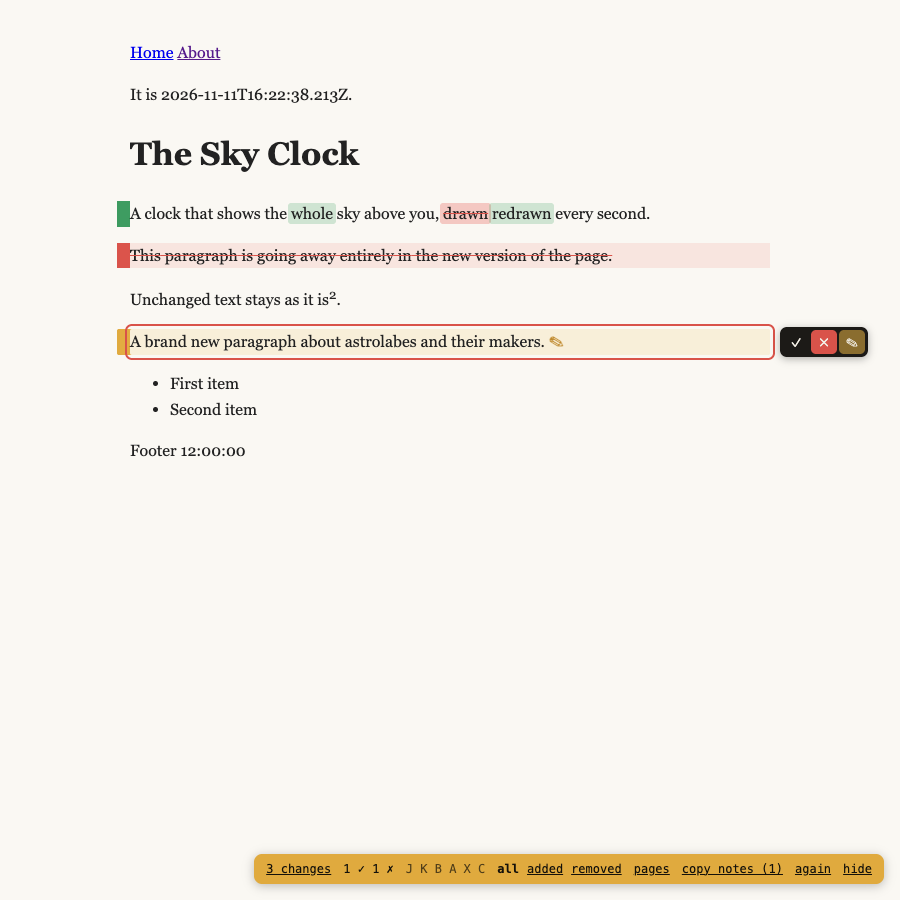
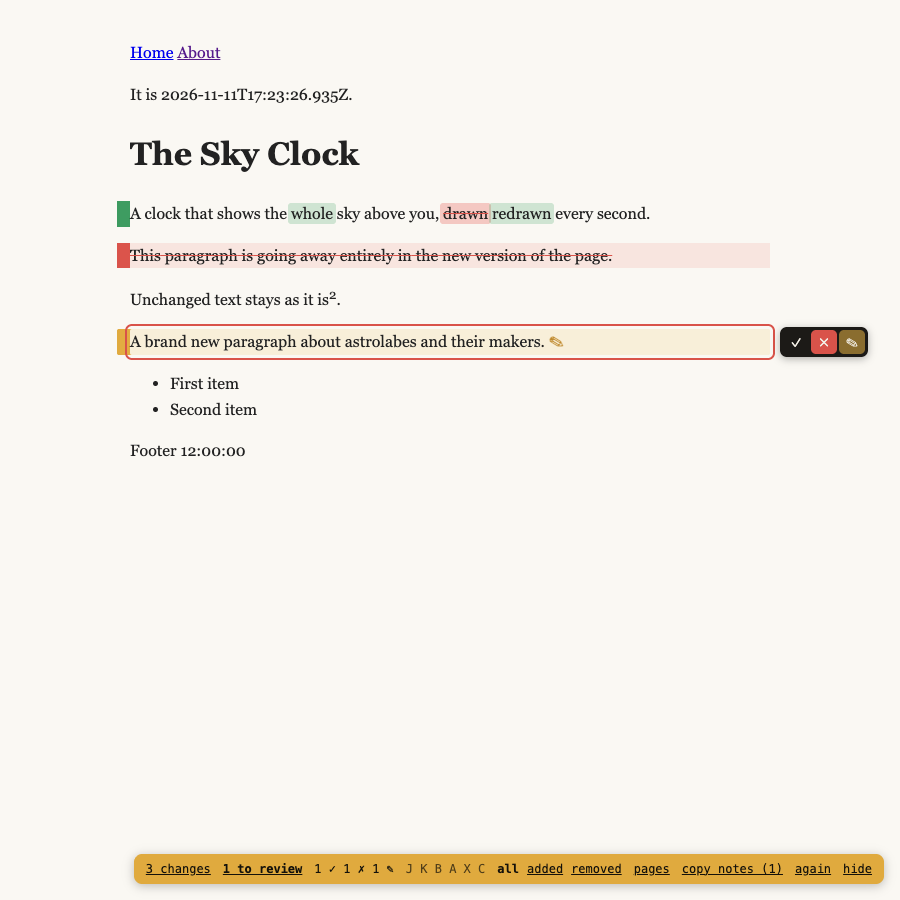
Show how many changes are still to review, and go to them
The badge and pages list count changes with no reaction yet (approve,
reject or note). Clicking the count, or approving or rejecting with A or X,
goes to the next one still to review.

Changed region(s): [[0.1244, 0.9333, 0.3733, 0.9956], [0.28, 0.0933, 0.3733, 0.1244]]

diff --git a/src/content.js b/src/content.js
@@ -78,6 +78,8 @@
   button { background:none; border:0; padding:0; color:inherit; font:inherit;
            text-decoration:underline; cursor:pointer; }
   .keys { opacity:.7; cursor:help; }
+  .todo { font-weight:700; }
+  .todo.done { font-weight:400; text-decoration:none; cursor:default; }
   /* Quick tooltips: the browser's own take a second to appear. */
   [data-tip] { position:relative; }
   [data-tip]:hover::after { content:attr(data-tip); position:absolute; right:0;
@@ -116,6 +118,7 @@
 <div class="b">
   <span class="msg"></span>
   <button class="count" hidden data-tip="Changes on this page. Click to go to the first"></button>
+  <button class="todo" hidden data-tip="Changes with no reaction yet. Click to go to the next one"></button>
   <span class="reviewed" hidden data-tip="Of this page's changes: ✓ approved, ✗ rejected, ✎ with a note or wording"></span>
   <span class="keys" hidden data-tip="J / K   next or previous change
 B       next view: all, added, removed
@@ -145,6 +148,7 @@ C       add a note or wording">J K B A X C</span>
       pages: $(".pages"),
       notes: $(".notes"),
       reviewed: $(".reviewed"),
+      todo: $(".todo"),
       panel: $(".panel"),
       ptitle: $(".ptitle"),
       plist: $(".panel ul"),
@@ -157,6 +161,7 @@ C       add a note or wording">J K B A X C</span>
     ui.more.onclick = () => scanPages(false);
     ui.pages.onclick = () => togglePages();
     ui.notes.onclick = () => copyNotes();
+    ui.todo.onclick = () => nextOpen();
     ui.rescan.onclick = () => scanPages(true);
     ui.count.onclick = () => step(1, true);
     for (const b of root.querySelectorAll("[data-mode]"))
@@ -182,6 +187,12 @@ C       add a note or wording">J K B A X C</span>
     const t = RV()?.tally(sum) ?? "";
     u.reviewed.hidden = !t;
     u.reviewed.textContent = t;
+    // Changes nobody has reacted to yet, or a tick once there are none.
+    u.todo.hidden = !sum;
+    if (sum) {
+      u.todo.textContent = sum.open ? `${sum.open} to review` : "all reviewed";
+      u.todo.classList.toggle("done", !sum.open);
+    }
     const fb = reviews ? RV().feedback(reviews).length : 0;
     u.notes.hidden = !fb;
     if (fb) u.notes.textContent = `copy notes (${fb})`;
@@ -355,6 +366,23 @@ C       add a note or wording">J K B A X C</span>
     render(ui?.msg.textContent, ui?.box.title);
     // The pages list shows each page's progress, so it follows along.
     if (ui && !ui.panel.hidden && !signal && scan) listPages();
+  }
+
+  // Goes to the next change with no reaction yet, after the current one.
+  function nextOpen() {
+    const open = [...document.querySelectorAll("[data-redline-id]")].filter(
+      (el) => el.getClientRects().length && !RV().reacted(reviews, el.getAttribute("data-redline-id"))
+    );
+    if (!open.length) return;
+    const from = tools.el ?? state.current;
+    const after = from
+      ? open.find((el) => from.compareDocumentPosition(el) & Node.DOCUMENT_POSITION_FOLLOWING)
+      : null;
+    const target = after ?? open[0];
+    state.current = target;
+    target.scrollIntoView({ behavior: "smooth", block: "center" });
+    const change = changeOf(target);
+    if (change) showTools(change);
   }
 
   async function copyNotes() {
@@ -695,7 +723,8 @@ C       add a note or wording">J K B A X C</span>
       if (it.state === "new") tag.innerHTML = '<span class="new">new page</span>';
       else if (it.state === "removed") tag.innerHTML = '<span class="removed">removed page</span>';
       else {
-        tag.textContent = `${it.count} ${it.count === 1 ? "change" : "changes"}`;
+        // Not opened since its text last changed: none of it is reviewed.
+        tag.textContent = `${it.count} to review`;
         // Review progress, for pages opened since their text last changed.
         const sum = reviews && RV().pageSummary(reviews, it.path);
         const t = RV().tally(sum);
@@ -703,7 +732,7 @@ C       add a note or wording">J K B A X C</span>
           tag.textContent =
             sum.ok === sum.total && !sum.noted
               ? "all approved"
-              : `${it.count} ${it.count === 1 ? "change" : "changes"}: ${t}`;
+              : [sum.open && `${sum.open} to review`, t].filter(Boolean).join(" · ");
       }
       li.append(a, tag);
       u.plist.append(li);
@@ -825,7 +854,7 @@ C       add a note or wording">J K B A X C</span>
         const s = key === "a" ? "ok" : "no";
         const was = reviews?.entries[tools.change.id]?.state;
         review(tools.change, { state: was === s ? null : s }).then(() => {
-          if (was !== s) step(1);
+          if (was !== s) nextOpen();
         });
       } else if (key === "c" && tools.change) openNote();
       else if (key === "j") step(1);

diff --git a/src/review.js b/src/review.js
@@ -43,20 +43,22 @@ globalThis.RedlineReview ??= (() => {
     return data;
   }
 
-  // { total, ok, no, noted } for a page, or null when it has not been opened.
+  // { total, ok, no, noted, open } for a page (open: no reaction yet), or null when it has not been opened.
   function pageSummary(data, path) {
     const page = data.pages[path];
     if (!page) return null;
     let ok = 0;
     let no = 0;
     let noted = 0;
+    let open = 0;
     for (const id of page.ids) {
       const e = data.entries[id];
       if (e?.state === "ok") ok++;
       else if (e?.state === "no") no++;
       if (e?.note || e?.suggestion) noted++;
+      if (!e?.state && !e?.note && !e?.suggestion) open++;
     }
-    return { total: page.ids.length, ok, no, noted };
+    return { total: page.ids.length, ok, no, noted, open };
   }
 
   // The reviews still current, worth sending on: rejections, notes and
@@ -105,5 +107,11 @@ globalThis.RedlineReview ??= (() => {
       .join(" ");
   }
 
-  return { load, setPage, update, pageSummary, tally, feedback, markdown };
+  // Whether a change has had any reaction: approved, rejected or a note.
+  function reacted(data, id) {
+    const e = data?.entries[id];
+    return !!(e?.state || e?.note || e?.suggestion);
+  }
+
+  return { load, setPage, update, pageSummary, tally, reacted, feedback, markdown };
 })();

diff --git a/README.md b/README.md
@@ -21,8 +21,10 @@ The badge in the corner counts the changed blocks and switches views too.
 Point at a change (or go to it with <kbd>J</kbd>/<kbd>K</kbd>) and a small
 toolbar appears beside it: **✓** approves it (<kbd>A</kbd>), **✗** rejects it
 (<kbd>X</kbd>), and **✎** (<kbd>C</kbd>) adds a note or suggested wording.
-<kbd>A</kbd> and <kbd>X</kbd> move on to the next change. Approved changes turn
-green, rejected ones get a red ring, and the badge counts both.
+<kbd>A</kbd> and <kbd>X</kbd> move on to the next change still to review.
+Approved changes turn green, rejected ones get a red ring, and the badge
+counts them, with **N to review** for the changes nobody has reacted to yet;
+click it to go to the next one.
 
 **copy notes** puts every rejection, note and suggested wording on the
 clipboard as a Markdown list, page by page, quoting the text and what it was
